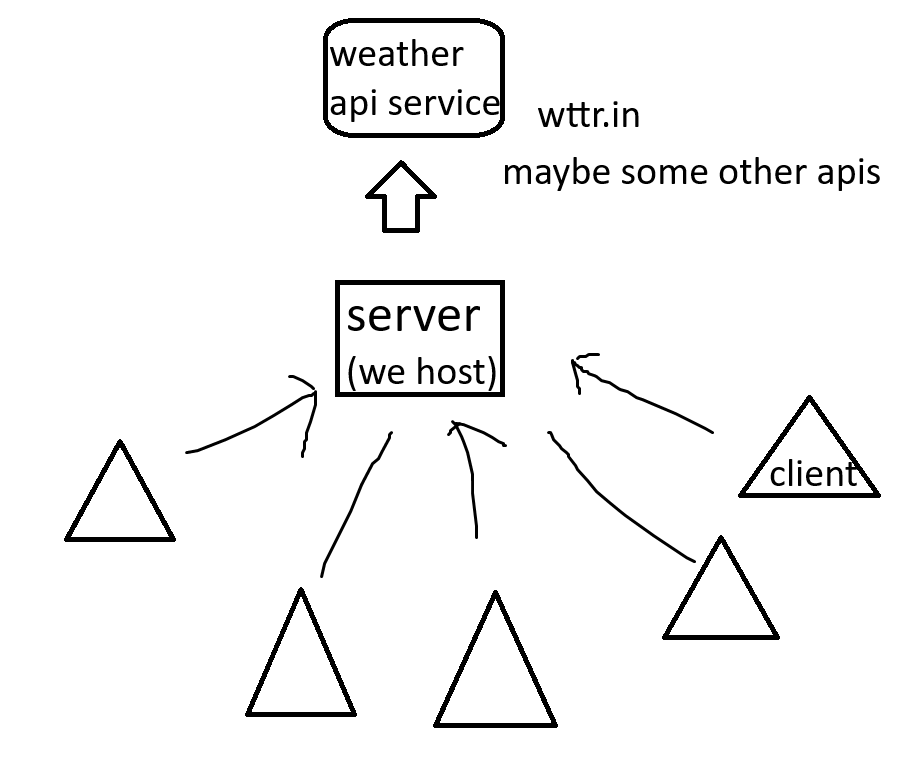
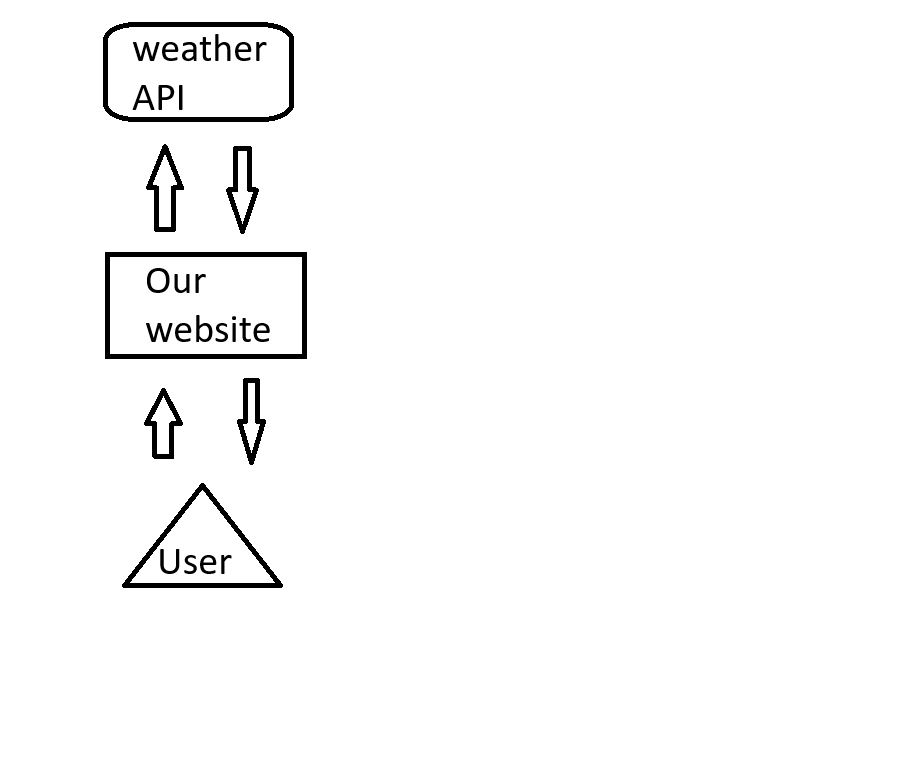
main is now working!
fully calculates:
avg_temp
daily_avg_visibility
day
precipitation
weather_description

client side javascript for getting client location
server side checking and validation
diagram of server/client/database interconnection is in image.png

todo:
make the website display the data pretty
save/load the data on the clients side
save it into the database (easy just forgot)

diff --git a/static/index.js b/static/index.js
@@ -1,0 +1,36 @@
+function update_forms_values(latitude,longitude){
+    const form_latitude = document.getElementById("latitude");
+    const form_longitude = document.getElementById("longitude");
+
+    //removing client validation as it would lead to a lighter wieght client
+    //+ it will get checked server side
+    // latitude = Math.max(Math.min(latitude,90),-90);
+    // longitude = Math.max(Math.min(longitude,180),-180);
+
+    console.log("setting latitude and longitude:  {longitude: "+longitude+",latitude: "+latitude+"}");
+
+    form_latitude.setAttribute("value",latitude);
+    form_longitude.setAttribute("value",longitude);
+}
+
+function geoFindMe() {
+
+    function success(position) {
+        const latitude = position.coords.latitude;
+        const longitude = position.coords.longitude;
+
+        update_forms_values(latitude,longitude)
+    }
+
+    function error() {
+        console.error("Unable to retrieve your location");
+    }
+
+    if (!navigator.geolocation) {
+        console.error("Geolocation is not supported by your browser");
+    } else {
+        navigator.geolocation.getCurrentPosition(success, error);
+    }
+}
+
+geoFindMe()

diff --git a/templates/index.html b/templates/index.html
@@ -1,5 +1,8 @@
 <!DOCTYPE html>
 <html>
+   <head>
+      <script src="{{url_for('static', filename='index.js')}}"></script>
+   </head>
    <body>
       <p>you are on the group 28 synoptic project website!</p>
 

diff --git a/server.py b/server.py
@@ -1,3 +1,20 @@
+"""====================================================================================================
+
+File                     :  server.py
+
+date                     :  2/6/2025
+
+Description              :  will host the flask server
+
+History                  :  
+
+                            4/6/2025 - now uses the dictionary in 'weather_code_lookup.py'
+
+===================================================================================================="""
+
+
+
+
 #will attempt to make the server.java in this file as working with python for requests
 #is soo much easier and more portable. and the benefits of using java for portibility go down
 #when we assume that if someone wants to set up one of these servers, they can install python. 
@@ -18,18 +35,22 @@
 # i dont think i can set up a static IP on uni wifi so for the project we will have to type in some numbers for the client
 
 
-from datetime import datetime
-from datetime import timedelta
-import time
-import sqlite3  # for the databse of the most recent API call, moved away from pgadmin as this import allows just the .db file without any login information
 import requests
-import database_handler
+from datetime import datetime, timedelta
 from flask import Flask, request, render_template
+import sqlite3  # for the databse of the most recent API call, moved away from pgadmin as this import allows just the .db file without any login information
 
-app = Flask(__name__)
-__DAYS_TO_LOOK_AHEAD = 7  # leave this at 7
+#custom imports
+import database_handler
+import weather_code_lookup
 
-
+APP = Flask(__name__)
+conn = database_handler.setup_conn("weather_api_logs.db")
+if conn == None:
+    print("cannot connect to the database")
+    exit(-1)
+DATABASE_HANDL= database_handler.database_handler(conn)
+DAYS_TO_LOOK_AHEAD = 7  # leave this at 7
 TABLE_COLUMNS = ["latitude","longitude","last_time_updated","raw_api_data"]
 
 
@@ -37,10 +58,9 @@ class RequestInvalid(Exception):
   def __init__(self, errorMessage):
     super().__init__(errorMessage)
 
-
 def get_datetime() -> str:
   """returns yy:mm:dd hr:min:sec
-  will be used for logging.
+  will be used for logging.\n
   get_datetime()[:10] -> for just the date
   get_datetime()[11:] -> for just the time"""
   return str(datetime.now())[:-7]
@@ -51,18 +71,27 @@ def call_api(latitude:float, longitude:float):
     current_date = get_datetime()[:10]
     current_date_obj:datetime = datetime.strptime(current_date, "%Y-%m-%d")
 
-    end_date = str(current_date_obj + timedelta(days=__DAYS_TO_LOOK_AHEAD))[:10]
+    end_date = str(current_date_obj + timedelta(days=DAYS_TO_LOOK_AHEAD))[:10]
 
     url = "http://api.open-meteo.com/v1/forecast"
 
     params = {
         "latitude": latitude,
         "longitude": longitude,
-        "daily": "temperature_2m_max,temperature_2m_min,precipitation_sum,weathercode",
+        "daily": [
+            "temperature_2m_max",
+            "temperature_2m_min",
+            "precipitation_sum",
+            "weathercode",
+            "windspeed_10m_max"
+        ],
+        "hourly": ["visibility"],
         "timezone": "auto",
         "start_date": current_date,
-        "end_date": end_date,
+        "end_date": end_date
     }
+    # can add this for unix timestamp instead of datetime stuff
+    # "timeformat": "unixtime",
 
     response = requests.get(url, params=params)
 
@@ -73,7 +102,50 @@ def call_api(latitude:float, longitude:float):
         print(response.__dict__)  # very verbous logging can remove
         raise RequestInvalid(f"Invalid request sent, status code: {response.status_code}")
 
-@app.route("/", methods = ["GET","POST"])
+def get_usefull_information_from_api(latitude, longitude, api_data:dict) -> list[dict]:
+    daily = api_data["daily"]
+    hourly_visibility = api_data["hourly"]["visibility"]
+    print(f"{DAYS_TO_LOOK_AHEAD}-Day Forecast for lat={latitude}, lon={longitude}")
+
+    cleaned_data = []
+
+    data_day = None
+    total_day_vis = []
+    current_day_vis = []
+    for i in range(len(hourly_visibility)):
+        if data_day is None:
+            data_day = api_data["hourly"]["time"][i][8:10]
+
+        elif data_day != api_data["hourly"]["time"][i][8:10]:
+            #when a differnt day is detected
+            data_day = api_data["hourly"]["time"][i][8:10]
+            total_day_vis.append(current_day_vis)
+            current_day_vis = []
+
+        current_day_vis.append(hourly_visibility[i])
+        
+        if i == 0:
+            total_day_vis.append(current_day_vis)
+
+    for i in range(len(daily["time"])):
+        #daily_visibility = hourly_visibility / len(hourly_visibility)
+        avg_temp = api_data["daily"]["temperature_2m_max"][i] + api_data["daily"]["temperature_2m_min"][i] / 2  # in Celcius
+        precipitation_sum = daily["precipitation_sum"][i]  # in mm
+        day = daily["time"][i]
+        weather_code = daily["weathercode"][i]
+        weather_desc = weather_code_lookup.weather_codes[weather_code]
+        daily_avg_visibility = sum(total_day_vis[i]) / len(total_day_vis[i])
+        print(f"\nday {day}")
+        print("avg temp:",avg_temp)
+        print(f"Weather Code: {weather_code}")  # https://www.meteomatics.com/en/api/available-parameters/weather-parameter/general-weather-state/
+        print(f"Weather Desc: {weather_desc}")
+        print(f"Precipitation: {precipitation_sum} mm")
+        print("daily_avg_visibility:",daily_avg_visibility)
+        cleaned_data.append({"day":day,"avg_temp":avg_temp,"weather_desc":weather_desc,"precipitation_sum":precipitation_sum,"daily_avg_visibility":daily_avg_visibility})
+    
+    return cleaned_data
+
+@APP.route("/", methods = ["GET","POST"])
 def main_page():
     #try to use as many try and excepts as possible as its vital for the server not to crash
     # if a error happens 'skip' will go True and then the client should be given the basic index.html
@@ -81,21 +153,23 @@ def main_page():
 
     if request.method == "POST":
         try:
-            client_latitude:float = request.form.get("latitude")
-            client_longitude:float = request.form.get("longitude")
+            client_latitude:float = min(max(float(request.form.get("latitude")),-90),90)
+            client_longitude:float = min(max(float(request.form.get("longitude")),-180),180)
         except:
             skip = True
             print(f"[{get_datetime()}]client sent a invalid packet, serving basic page")
         
         if not skip:
+            api_response = call_api(client_latitude, client_longitude)
+            data = get_usefull_information_from_api(client_latitude, client_longitude, api_response)
             try:
-                api_response = call_api(client_latitude,client_longitude)
+                pass
             except:
                 skip = True
                 print(f"[{get_datetime()}]something went wrong with the api call, serving basic page")
         
         if not skip:
-            return api_response
+            return data
 
     if request.method == "GET" or skip:
         return render_template("index.html")
@@ -132,4 +206,4 @@ if __name__ == "__main__":
     print("should_api_call: ", should_api_call)
     
 
-    app.run()
+    APP.run()

diff --git a/weather_code_lookup.py b/weather_code_lookup.py
@@ -1,0 +1,116 @@
+"""====================================================================================================
+
+File                     :  weather_code_lookup.py
+
+date                     :  2/6/2025
+
+Description              :  the point of this file is to reduce requests to look up what the codes mean.
+                            will hold a simple dictionary for the weather code and their meaning,
+                            storing this in a different file as i expect this will take alot of lines to make.
+
+History                  :  2/6/2025 added the dictionary
+
+===================================================================================================="""
+
+weather_codes:dict[int:str] = {
+    0: "Cloud development not observed or not observable",
+    1: "Clouds generally dissolving or becoming less developed",
+    2: "State of sky on the whole unchanged",
+    3: "Clouds generally forming or developing",
+    4: "Visibility reduced by smoke, e.g. veldt or forest fires, industrial smoke or volcanic ashes",
+    5: "Haze",
+    6: "Widespread dust in suspension in the air, not raised by wind at or near the station at the time of observation",
+    7: "Dust or sand raised by wind at or near the station at the time of observation, but no well developed dust whirl(s) or sand whirl(s), and no duststorm or sandstorm seen",
+    8: "Well developed dust whirl(s) or sand whirl(s) seen at or near the station during the preceding hour or at the time ot observation, but no duststorm or sandstorm",
+    9: "Duststorm or sandstorm within sight at the time of observation, or at the station during the preceding hour",
+    10: "Mist",
+    11: "Patches",
+    12: "More or less continuous",
+    13: "Lightning visible, no thunder heard",
+    14: "Precipitation within sight, not reaching the ground or the surface of the sea",
+    15: "Precipitation within sight, reaching the ground or the surface of the sea, but distant, i.e. estimated to be more than 5 km from the station",
+    16: "Precipitation within sight, reaching the ground or the surface of the sea, near to, but not at the station",
+    17: "Thunderstorm, but no precipitation at the time of observation",
+    18: "Squalls",
+    19: "Funnel cloud(s)",
+    20: "Drizzle (not freezing) or snow grains",
+    21: "Rain (not freezing)",
+    22: "Snow",
+    23: "Rain and snow or ice pellets",
+    24: "Freezing drizzle or freezing rain",
+    25: "Shower(s) of rain",
+    26: "Shower(s) of snow, or of rain and snow",
+    27: "Shower(s) of hail, or of rain and hail",
+    28: "Fog or ice fog",
+    29: "Thunderstorm (with or without precipitation)",
+    30: "Slight or moderate duststorm or sandstorm",
+    31: "Slight or moderate duststorm or sandstorm",
+    32: "Slight or moderate duststorm or sandstorm",
+    33: "Severe duststorm or sandstorm",
+    34: "Severe duststorm or sandstorm",
+    35: "Severe duststorm or sandstorm",
+    36: "Slight or moderate blowing snow",
+    37: "Heavy drifting snow",
+    38: "Slight or moderate blowing snow",
+    39: "Heavy drifting snow",
+    40: "Fog or ice fog at a distance at the time of observation, but not at the station during the preceding hour, the fog or ice fog extending to a level above that of the observer",
+    41: "Fog or ice fog in patches",
+    42: "Fog or ice fog, sky visible",
+    43: "Fog or ice fog, sky invisible",
+    44: "Fog or ice fog, sky visible",
+    45: "Fog or ice fog, sky invisible",
+    46: "Fog or ice fog, sky visible",
+    47: "Fog or ice fog, sky invisible",
+    48: "Fog, depositing rime, sky visible",
+    49: "Fog, depositing rime, sky invisible",
+    50: "Drizzle, not freezing, intermittent",
+    51: "Drizzle, not freezing, continuous",
+    52: "Drizzle, not freezing, intermittent",
+    53: "Drizzle, not freezing, continuous",
+    54: "Drizzle, not freezing, intermittent",
+    55: "Drizzle, not freezing, continuous",
+    56: "Drizzle, freezing, slight",
+    57: "Drizzle, freezing, moderate or heavy (dence)",
+    58: "Drizzle and rain, slight",
+    59: "Drizzle and rain, moderate or heavy",
+    60: "Rain, not freezing, intermittent",
+    61: "Rain, not freezing, continuous",
+    62: "Rain, not freezing, intermittent",
+    63: "Rain, not freezing, continuous",
+    64: "Rain, not freezing, intermittent",
+    65: "Rain, not freezing, continuous",
+    66: "Rain, freezing, slight",
+    67: "Rain, freezing, moderate or heavy (dence)",
+    68: "Rain or drizzle and snow, slight",
+    69: "Rain or drizzle and snow, moderate or heavy",
+    70: "Intermittent fall of snowflakes",
+    71: "Continuous fall of snowflakes",
+    72: "Intermittent fall of snowflakes",
+    73: "Continuous fall of snowflakes",
+    74: "Intermittent fall of snowflakes",
+    75: "Continuous fall of snowflakes",
+    76: "Diamond dust (with or without fog)",
+    77: "Snow grains (with or without fog)",
+    78: "Isolated star-like snow crystals (with or without fog)",
+    79: "Ice pellets",
+    80: "Rain shower(s), slight",
+    81: "Rain shower(s), moderate or heavy",
+    82: "Rain shower(s), violent",
+    83: "Shower(s) of rain and snow mixed, slight",
+    84: "Shower(s) of rain and snow mixed, moderate or heavy",
+    85: "Snow shower(s), slight",
+    86: "Snow shower(s), moderate or heavy",
+    87: "Shower(s) of snow pellets or small hail, with or without rain or rain and snow mixed",
+    88: "Shower(s) of snow pellets or small hail, with or without rain or rain and snow mixed",
+    89: "Shower(s) of hail, with or without rain or rain and snow mixed, not associated with thunder",
+    90: "Shower(s) of hail, with or without rain or rain and snow mixed, not associated with thunder",
+    91: "Slight rain at time of observation",
+    92: "Moderate or heavy rain at time of observation",
+    93: "Slight snow, or rain and snow mixed or hail at time of observation",
+    94: "Moderate or heavy snow, or rain and snow mixed or hail at time of observation",
+    95: "Thunderstorm, slight or moderate, without hail but with rain and/or snow at time of observation",
+    96: "Thunderstorm, slight or moderate, with hail at time of observation",
+    97: "Thunderstorm, heavy, without hail but with rain and/or snow at time of observation",
+    98: "Thunderstorm combined with duststorm or sandstorm at time of observation",
+    99: "Thunderstorm, heavy, with hail at time of observation"
+}

diff --git a/database_handler.py b/database_handler.py
@@ -25,7 +25,7 @@ class database_handler():
     def __init__(self, conn:sqlite3.Connection):
         self.conn = conn
         self.database_cursor = self.conn.cursor()
-        self.api_call_freq = 5  # in seconds
+        self.api_call_freq = 60 * 10  # stores seconds. currently 10min
 
     def first_time_install(self):
         self.set_up_database()
@@ -46,6 +46,8 @@ class database_handler():
     {TABLE_COLUMNS[2]} FLOAT NOT NULL,
     {TABLE_COLUMNS[3]} TEXT,
     PRIMARY KEY (latitude, longitude)"""
+        print(table_columns_checks)
+        input()
 
         self.database_cursor.execute(f"CREATE TABLE IF NOT EXISTS weather_api_logs({table_columns_checks});")
         self.conn.commit()
